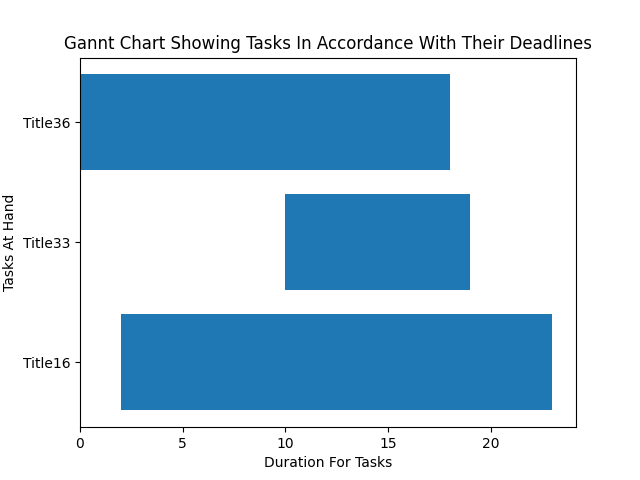
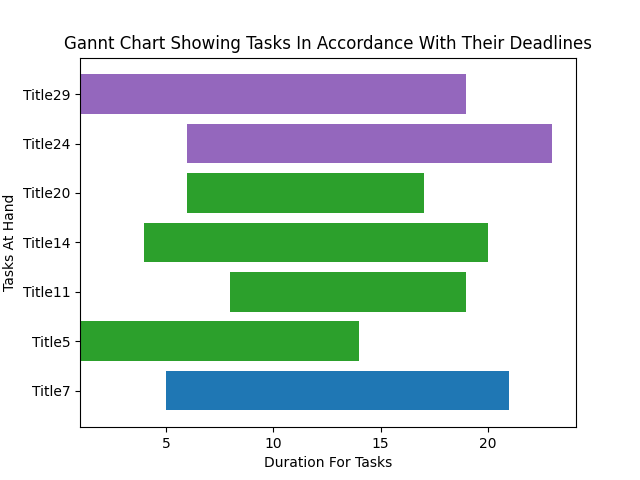
new commmit

diff --git a/Personal_Scheduler_v2/SortAlgos2.py b/Personal_Scheduler_v2/SortAlgos2.py
@@ -11,49 +11,47 @@ tasks = list_all_tasks()
 November = monthGenerator(30)
 
 def all_tasks():
-    for task in tasks:
+    for task in tasks: #this runs in O(n)
         print(task)
 
 # Sorting personal tasks
 def personal_tasks():
     personal = []
     for task in tasks:
-        if task.category == "Personal":
+        if task.category == "Personal": #O(n)
             # print(task)
             personal.append(task)
     return personal
 
 def listing_all_personal():
     personal = personal_tasks()
-    for task in personal:
+    for task in personal:       #O(n)
         print(task)
 
 # Sorting school tasks
 def school_tasks():
     school = []
     for task in tasks:
-        if task.category == "School":
+        if task.category == "School":   #O(n)
             # print(task)
             school.append(task)
     return school
 
 def listing_all_school():
     school = school_tasks()
-    for task in school:
+    for task in school:     #O(n)
         print(task)
-
-
 
 # sorting different tasks to their respective days.
 def day_tasks():
-    for task in tasks:
+    for task in tasks:                  #O(n)
         November[task.dueDate].append(task)
     return November
 
 task_specific = day_tasks()
 
 # Function to return tasks of a specific day.
-def tasks_of_specific_day(date):
+def tasks_of_specific_day(date):            #O(n^2)
     for day in range(len(task_specific)):
         if day == date:
             for task in task_specific[day]:
@@ -61,7 +59,7 @@ def tasks_of_specific_day(date):
 
 # A function to remove particular task from a given day with the use of our searchTasks function
 def remove_task_from_specific2(date,num):
-    lists = SearchTasks(date)
+    lists = SearchTasks(date)                   #O(log(n))
     for task in lists:
         if task.TaskNo == num:
             task.iscompleted = True
@@ -71,13 +69,13 @@ def remove_task_from_specific2(date,num):
 
 # Function to check the busy days in the month basing off how many tasks are in the day/list
 def busy_days_in_month():
-    for day in task_specific:
+    for day in task_specific:       #O(n)
         if type(day) == list and len(day) >= 3:
             print("{} is a busy day".format(task_specific.index(day)))       
 
-# Funstion to check how busy an individual day is
+# Function to check how busy an individual day is
 def busy_day(day):
-    if type(task_specific[day]) == list and len(task_specific[day]) >= 3:
+    if type(task_specific[day]) == list and len(task_specific[day]) >= 3:   #O(1)
         print("{} is a busy day".format(day))
     else:
         print(f"{day} is not busy")
@@ -88,12 +86,14 @@ def SearchTasks(item):
     ind = binary_search(task_specific,item)
     return task_specific[int(ind)]
 
+    
+
 # A Function to help notify the user of upcoming tasks/tasks fast approaching
 def Upcomingtasks():
     x = datetime.datetime.now()
     dateToday = int(x.strftime("%d"))
 
-    for i in range(dateToday,len(task_specific)):
+    for i in range(dateToday,len(task_specific)):   #O(n)
         if type(task_specific[i]) == list:
             for task in task_specific[i]: 
              print(task)

diff --git a/Personal_Scheduler_v2/Scheduler.py b/Personal_Scheduler_v2/Scheduler.py
@@ -1,4 +1,5 @@
 from Mainly2 import CreateTask
+from GanntChart import DateChart
 from SortAlgos2 import tasks_of_specific_day, remove_task_from_specific2,busy_day,Upcomingtasks, all_tasks, listing_all_personal, listing_all_school
 
 
@@ -22,6 +23,7 @@ def listTasks():
     elif (choice == str(4)):
         day = int(input("Which day's tasks would you like to view: \n"))
         tasks_of_specific_day(day)
+        DateChart(day)
         busy_day(day)
     elif (choice == str(5)):
         Upcomingtasks()
@@ -39,7 +41,7 @@ def removingTask():
 # Here we are calling it like our main function, its what is prompted to create a schedule.
 def creating_A_schedule():
     print("**************************************")
-    print("Heloo, welcome to your scheduler!!!")
+    print("Hello User, Welcome To Your Personal Scheduler!!!")
     print("")
     print("What would you like to do?")
     print("")
@@ -57,13 +59,13 @@ def creating_A_schedule():
     elif(option == str(3)):
         removingTask()
     print("")
-    print("Go back to Main menu? y/n")
+    print("Would you like to go back to the Main Menu? y/n")
     choice = input()
     print("")
     if choice == "y":
         creating_A_schedule()
     elif choice == "n":
-        print("Happy productivity!!")
+        print("Happy Productivity!!")
     
 
 creating_A_schedule()

diff --git a/Personal_Scheduler_v2/GanntChart.py b/Personal_Scheduler_v2/GanntChart.py
@@ -6,7 +6,7 @@ from SortAlgos2 import returntasks
 
 #git
 TaskCompiler = returntasks()
-
+#function that turns the task list into  dictionaries to be used as a dataframe
 def TaskDict(list):
     tasklist = []
     for obj in list:
@@ -29,9 +29,6 @@ def DateChart(date):
     plt.xlabel("Duration For Tasks")
     plt.ylabel("Tasks At Hand")
     plt.savefig('Gannt Chart For Tasks.png')
-
-
-DateChart(15)
 
 # plt.barh(y=dl_df['task'], width=dl_df['width'], left=dl_df['timestart'])
 # plt.title("Gannt Chart Showing Tasks In Accordance With Their Deadlines")
